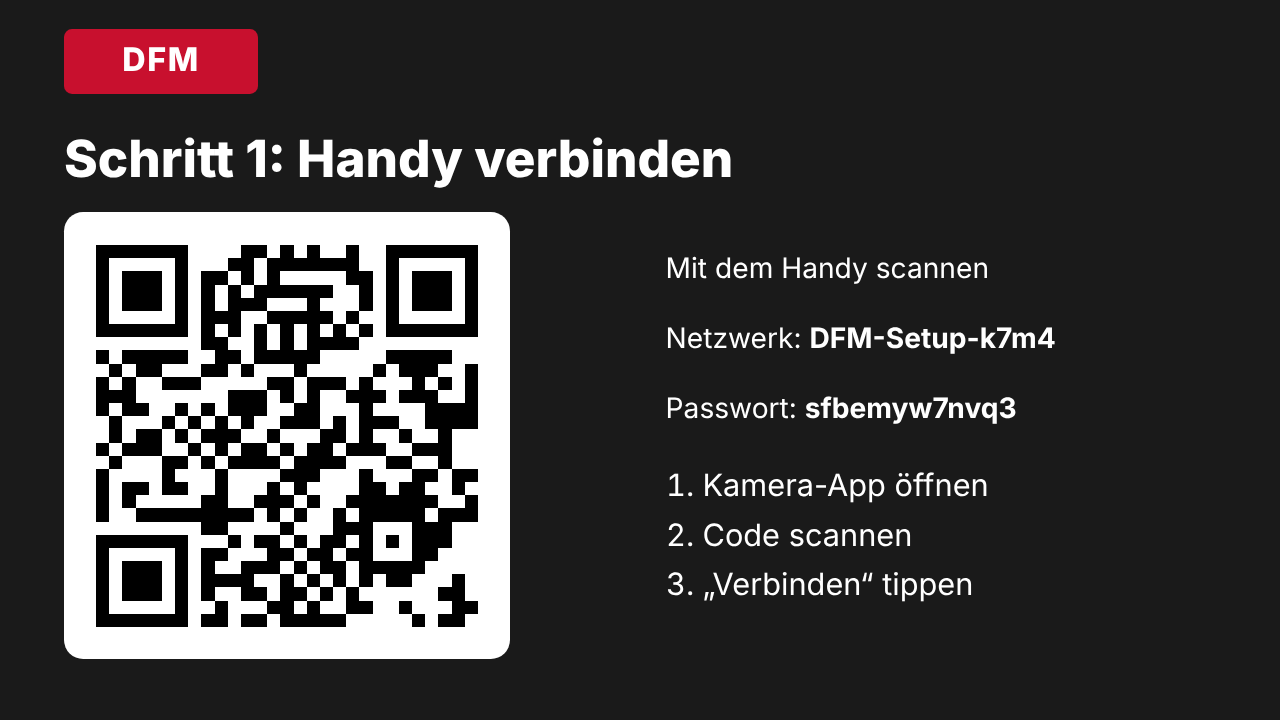
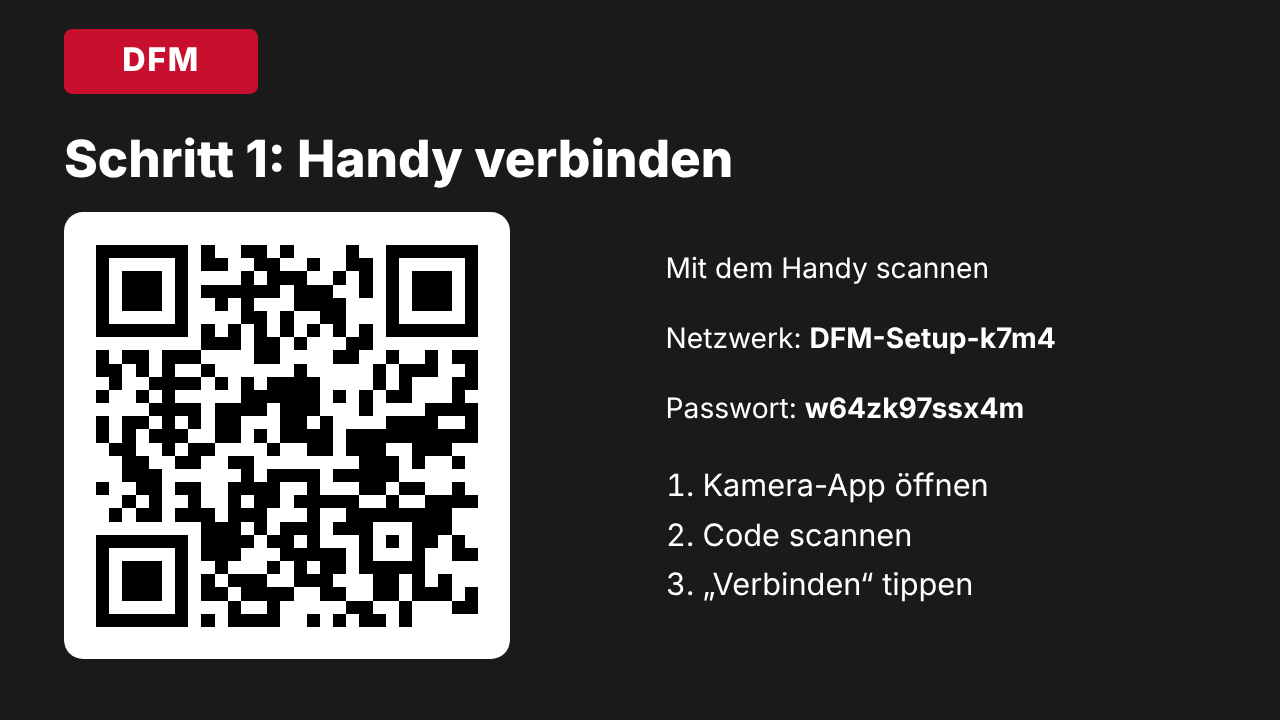
Lite: vorgerenderte Hinweisbilder; Screenshots aktualisiert; Controller robust ohne LAN-Abfrage

Changed region(s): [[0.0625, 0.3361, 0.375, 0.8861], [0.625, 0.55, 0.8125, 0.5806]]

diff --git a/setup/lib/controller.js b/setup/lib/controller.js
@@ -25,7 +25,7 @@ export function createController({ nm, suffix, now = () => Date.now(), rnd = ran
   const authed = (t) => typeof t === 'string' && s.sessions.has(t);
 
   async function tick() { // alle 2 s
-    s.lan = await nm.hasLan().then(async (ok) => (ok ? { ip: await nm.lanAddress?.().catch(() => null) } : null)).catch(() => null);
+    s.lan = await Promise.resolve(nm.hasLan?.() ?? false).then(async (ok) => (ok ? { ip: await Promise.resolve(nm.lanAddress?.() ?? null).catch(() => null) } : null)).catch(() => null);
     if (s.phase === 'step1' || s.phase === 'step2') {
       if (now() - s.last > IDLE_MS) { log('15 Minuten ohne Aktivität – Modus wird neu gestartet'); return startMode(); }
       s.stations = await nm.stations().catch(() => 0);
